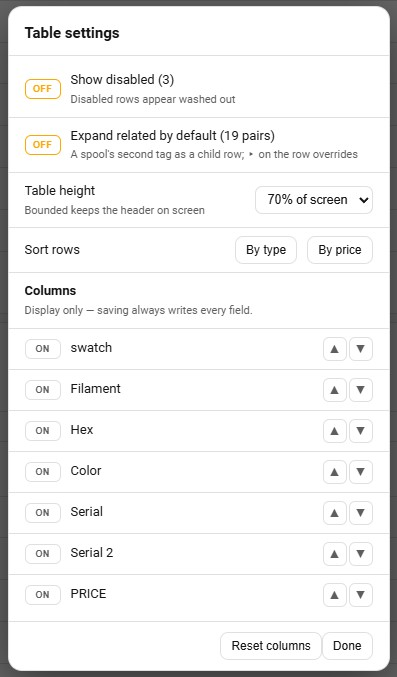
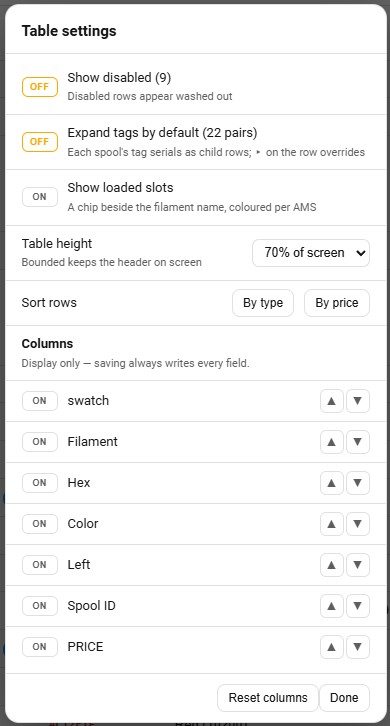
Docs: wire in the Left-ring close-ups, refresh tags-table screenshots

Changed region(s): [[0.0, 0.0, 1.0, 1.0]]

diff --git a/docs/cards.md b/docs/cards.md
@@ -35,6 +35,9 @@ startup for you to add by hand.
   [filament inventory sensor](filament.md#remaining-grams-from-the-cloud-inventory)
   configured, the value keeps itself current. Shared across a pair, like everything
   else describing the spool.
+
+  ![The ring's tooltip: grams left, the percentage, and the click-to-edit hint](images/filaments_table_filament_left_hover.jpg)
+  ![The ring clicked into a plain grams field](images/filaments_table_filament_left_edit.jpg)
 - The colour-name cell is a combo over the whole Bambu palette: click it and the full
   list drops down, scrollable; start typing and it filters. The list is a convenience,
   not a constraint — anything you type is accepted as-is.
